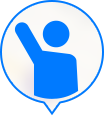
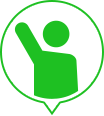
MKTAXI-1419 Update assets + add destination annotation

diff --git a/Src/Mobile/iOS/Views/OrderMapView.cs b/Src/Mobile/iOS/Views/OrderMapView.cs
@@ -21,6 +21,8 @@ namespace apcurium.MK.Booking.Mobile.Client.Views
     public class OrderMapView: BindableMapView
     {
         private AddressAnnotation _pickupAnnotation;
+        private AddressAnnotation _destinationAnnotation;
+        private List<AddressAnnotation> _availableVehicleAnnotations = new List<AddressAnnotation> ();
 
         public OrderMapView(IntPtr handle)
             :base(handle)
@@ -41,6 +43,10 @@ namespace apcurium.MK.Booking.Mobile.Client.Views
                     .To(vm => vm.PickupAddress);
 
                 set.Bind()
+                    .For(v => v.DestinationAddress)
+                    .To(vm => vm.DestinationAddress);
+
+                set.Bind()
                     .For(v => v.MapBounds)
                     .To(vm => vm.MapBounds);
 
@@ -56,6 +62,10 @@ namespace apcurium.MK.Booking.Mobile.Client.Views
                 AddressAnnotationType.Pickup,
                 string.Empty,
                 string.Empty);
+            _destinationAnnotation = new AddressAnnotation(new CLLocationCoordinate2D(),
+                AddressAnnotationType.Destination,
+                string.Empty,
+                string.Empty);
         }
 
         private Address _pickupAddress;
@@ -69,14 +79,21 @@ namespace apcurium.MK.Booking.Mobile.Client.Views
             }
         }
 
+        private Address _destinationAddress;
+        public Address DestinationAddress
+        {
+            get { return _destinationAddress; }
+            set
+            { 
+                _destinationAddress = value;
+                OnDestinationAddressChanged();
+            }
+        }
+
         private MapBounds _mapBounds;
         public MapBounds MapBounds
         {
-            get
-            {
-                return _mapBounds;
-            }
-
+            get { return _mapBounds; }
             set
             {
                 if (_mapBounds != value)
@@ -100,14 +117,26 @@ namespace apcurium.MK.Booking.Mobile.Client.Views
             if (PickupAddress.HasValidCoordinate())
             {
                 RemoveAnnotation(_pickupAnnotation);
-
                 _pickupAnnotation.Coordinate = PickupAddress.GetCoordinate();
-
                 AddAnnotation(_pickupAnnotation);
             }
             else
             {
                 RemoveAnnotation (_pickupAnnotation);
+            }
+        }
+
+        private void OnDestinationAddressChanged()
+        {
+            if (DestinationAddress.HasValidCoordinate())
+            {
+                RemoveAnnotation(_destinationAnnotation);
+                _destinationAnnotation.Coordinate = DestinationAddress.GetCoordinate();
+                AddAnnotation(_destinationAnnotation);
+            }
+            else
+            {
+                RemoveAnnotation (_destinationAnnotation);
             }
         }
 
@@ -123,15 +152,14 @@ namespace apcurium.MK.Booking.Mobile.Client.Views
             }
         }
 
-        private readonly List<MKAnnotation> _availableVehiclePushPins = new List<MKAnnotation> ();
         private void ShowAvailableVehicles(IEnumerable<AvailableVehicle> vehicles)
         {
             // remove currently displayed pushpins
-            foreach (var pushPin in _availableVehiclePushPins)
+            foreach (var vehicleAnnotation in _availableVehicleAnnotations)
             {
-                RemoveAnnotation(pushPin);
+                RemoveAnnotation(vehicleAnnotation);
             }
-            _availableVehiclePushPins.Clear ();
+            _availableVehicleAnnotations.Clear ();
 
             if (vehicles == null)
                 return;
@@ -142,9 +170,9 @@ namespace apcurium.MK.Booking.Mobile.Client.Views
                                      ? AddressAnnotationType.NearbyTaxiCluster 
                                      : AddressAnnotationType.NearbyTaxi;
 
-                var pushPin = new AddressAnnotation (new CLLocationCoordinate2D(v.Latitude, v.Longitude), annotationType, string.Empty, string.Empty);
-                AddAnnotation (pushPin);
-                _availableVehiclePushPins.Add (pushPin);
+                var vehicleAnnotation = new AddressAnnotation (new CLLocationCoordinate2D(v.Latitude, v.Longitude), annotationType, string.Empty, string.Empty);
+                AddAnnotation (vehicleAnnotation);
+                _availableVehicleAnnotations.Add (vehicleAnnotation);
             }
         }
 

diff --git a/Src/Mobile/Common/ViewModels/Map/MapViewModel.cs b/Src/Mobile/Common/ViewModels/Map/MapViewModel.cs
@@ -20,6 +20,7 @@ namespace apcurium.MK.Booking.Mobile.ViewModels
 			_vehicleService = vehicleService;
 
 			this.Observe(_orderWorkflowService.GetAndObservePickupAddress(), address => PickupAddress = address);
+			this.Observe(_orderWorkflowService.GetAndObserveDestinationAddress(), address => DestinationAddress = address);
 			this.Observe(_vehicleService.GetAndObserveAvailableVehicles(), availableVehicles => AvailableVehicles = availableVehicles);
         }
 		
@@ -34,6 +35,21 @@ namespace apcurium.MK.Booking.Mobile.ViewModels
 					_pickupAddress = value;
 					RaisePropertyChanged();
 					OnPickupAddressChanged();
+				}
+			}
+		}
+
+		private Address _destinationAddress;
+		public Address DestinationAddress
+		{
+			get { return _destinationAddress; }
+			set
+			{
+				if (value != _destinationAddress)
+				{
+					_destinationAddress = value;
+					RaisePropertyChanged();
+					OnDestinationAddressChanged();
 				}
 			}
 		}
@@ -76,6 +92,23 @@ namespace apcurium.MK.Booking.Mobile.ViewModels
 					SouthBound = PickupAddress.Latitude - deltaLat,
 					EastBound = PickupAddress.Longitude - deltaLng,
 					WestBound = PickupAddress.Longitude + deltaLng,
+				};
+			}
+		}
+
+		private void OnDestinationAddressChanged()
+		{
+			var deltaLat = 0.002;
+			var deltaLng = 0.002;
+
+			if (DestinationAddress.HasValidCoordinate())
+			{
+				MapBounds = new MapBounds
+				{
+					NorthBound = DestinationAddress.Latitude + deltaLat,
+					SouthBound = DestinationAddress.Latitude - deltaLat,
+					EastBound = DestinationAddress.Longitude - deltaLng,
+					WestBound = DestinationAddress.Longitude + deltaLng,
 				};
 			}
 		}

diff --git a/Src/Mobile/Common/ViewModels/Orders/OrderOptionsViewModel.cs b/Src/Mobile/Common/ViewModels/Orders/OrderOptionsViewModel.cs
@@ -64,8 +64,13 @@ namespace apcurium.MK.Booking.Mobile.ViewModels.Orders
 		public bool ShowDestination
 		{
 			get { 
-				return AddressSelectionMode == AddressSelectionMode.DropoffSelection 
-					|| AddressSelectionMode == AddressSelectionMode.None; 
+				var showDestination = AddressSelectionMode == AddressSelectionMode.DropoffSelection || AddressSelectionMode == AddressSelectionMode.None;
+				if (!showDestination)
+				{
+					_orderWorkflowService.ClearDestinationAddress();
+				}
+
+				return showDestination;
 			}
 		}
 

diff --git a/Src/Mobile/Common/AppServices/Orders/OrderWorkflowService.cs b/Src/Mobile/Common/AppServices/Orders/OrderWorkflowService.cs
@@ -81,6 +81,11 @@ namespace apcurium.MK.Booking.Mobile.AppServices.Orders
 			);
 		}
 
+		public async Task ClearDestinationAddress()
+		{
+			_destinationAddressSubject.OnNext(new Address());
+		}
+
 		public async Task ToggleBetweenPickupAndDestinationSelectionMode()
 		{
 			var currentSelectionMode = await _addressSelectionModeSubject.Take(1).ToTask();

diff --git a/Src/Mobile/Common/ViewModels/HomeViewModel.cs b/Src/Mobile/Common/ViewModels/HomeViewModel.cs
@@ -21,8 +21,6 @@ namespace apcurium.MK.Booking.Mobile.ViewModels
 		{
 			_orderWorkflowService = orderWorkflowService;
 			Panel = new PanelMenuViewModel(this, browserTask);
-            // debug:
-            Map = AddChild<MapViewModel>(); //
 		}
 
 		public void Init()

diff --git a/Src/Mobile/Common/AppServices/IOrderWorkflowService.cs b/Src/Mobile/Common/AppServices/IOrderWorkflowService.cs
@@ -8,6 +8,7 @@ namespace apcurium.MK.Booking.Mobile.AppServices
     public interface IOrderWorkflowService
     {
 		Task SetAddressToUserLocation();
+		Task ClearDestinationAddress();
 
 		Task ToggleBetweenPickupAndDestinationSelectionMode();
 
